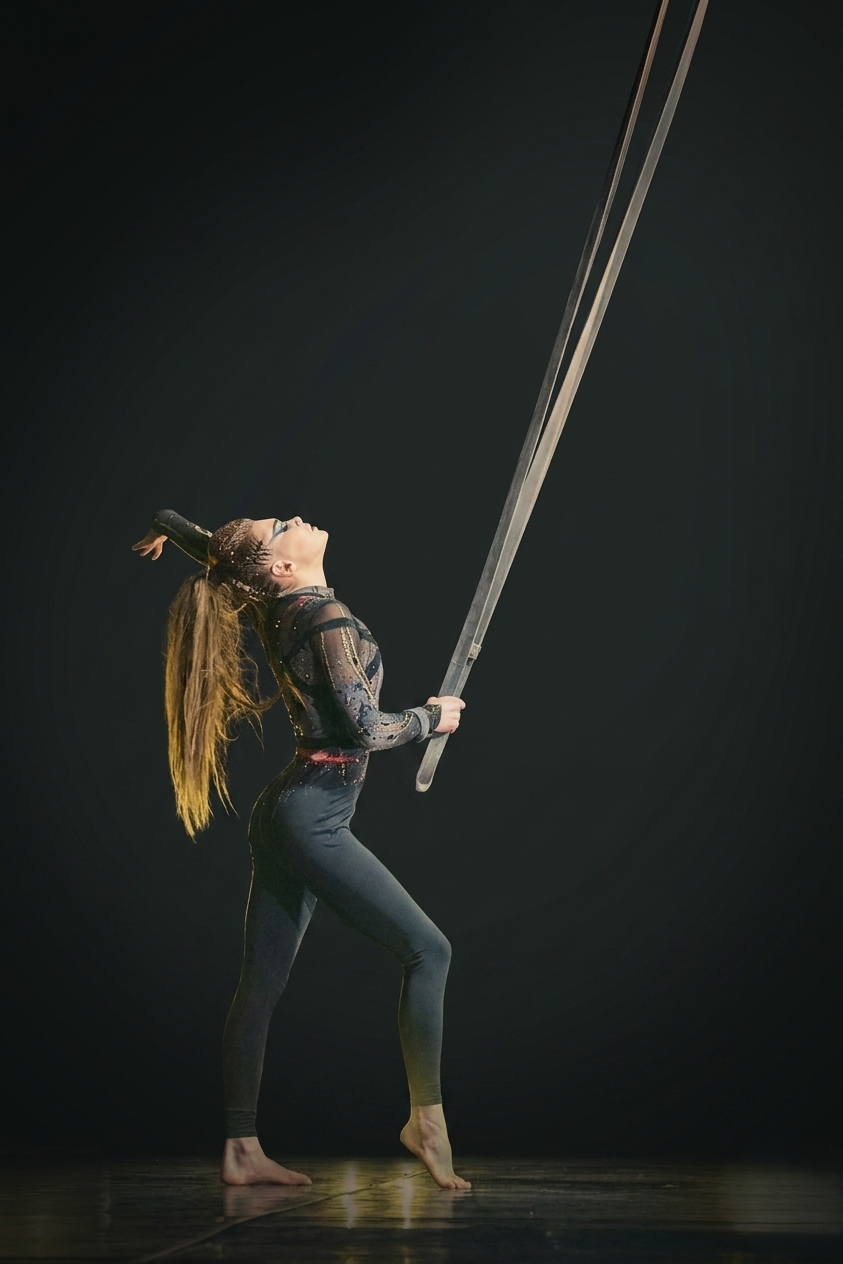
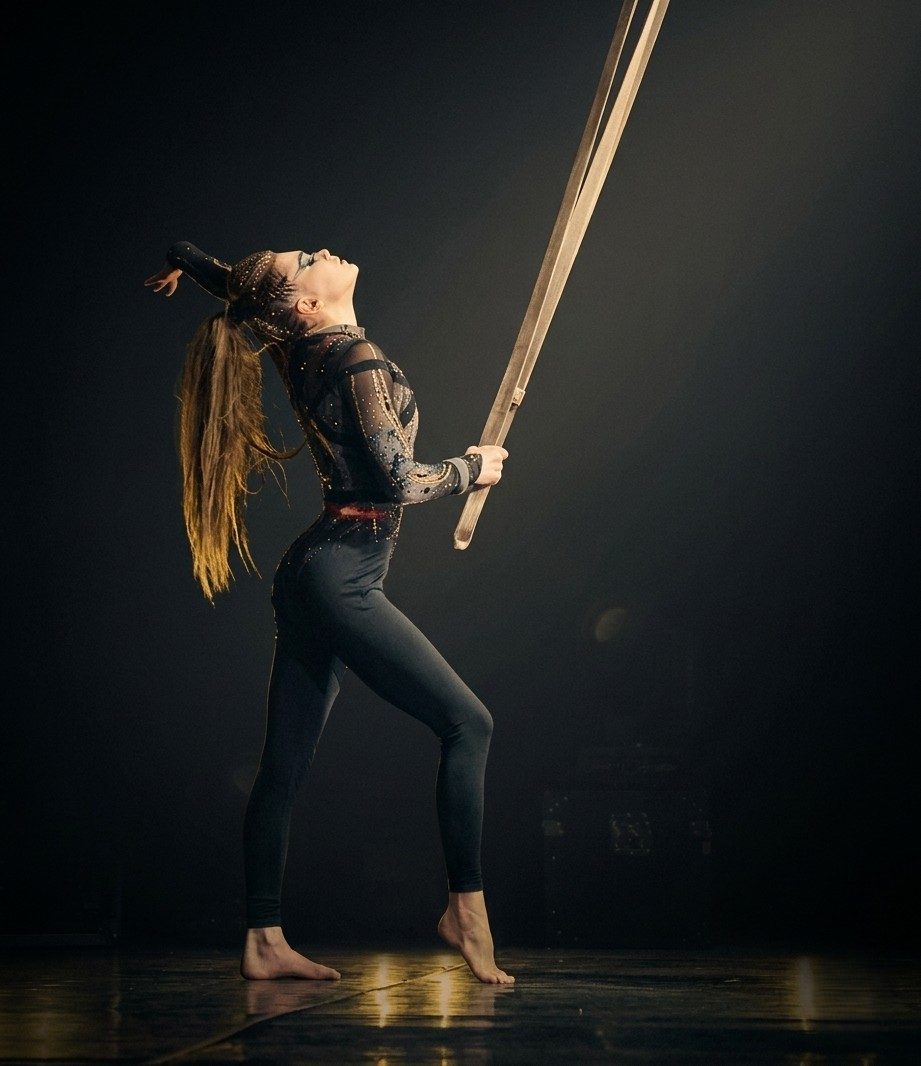
refactor About and TailoredServices components for consistency; update styles and improve layout

Changed region(s): [[0.1542, 0.0, 0.9561, 1.0], [0.8327, 0.8977, 1.0, 0.9906], [0.3393, 0.712, 0.3701, 0.7739]]

diff --git a/components/about.tsx b/components/about.tsx
@@ -1,49 +1,59 @@
-"use client"
+"use client";
 
-import { useLanguage } from "@/lib/language-context"
-import Image from "next/image"
+import { useLanguage } from "@/lib/language-context";
+import Image from "next/image";
 
 export function About() {
-  const { t } = useLanguage()
+  const { t } = useLanguage();
 
   const stats = [
     { value: t.about.stat1Value, label: t.about.stat1Label },
     { value: t.about.stat2Value, label: t.about.stat2Label },
     { value: t.about.stat3Value, label: t.about.stat3Label },
-  ]
+  ];
 
   return (
-    <section id="about" className="pt-12 pb-20 md:py-36 px-6 bg-background" aria-labelledby="about-heading">
+    <section
+      id="about"
+      className="pt-12 pb-20 md:py-36 px-6 bg-background"
+      aria-labelledby="about-heading"
+    >
       <div className="max-w-7xl mx-auto">
         <div className="grid md:grid-cols-2 gap-16 lg:gap-24 items-center">
           {/* Image side */}
-          <div className="relative">
-            <div className="relative aspect-[3/4] overflow-hidden">
+          <div className="relative order-2 md:order-1">
+            <div className="relative h-[420px] md:h-auto md:aspect-[4/5] overflow-hidden">
               <Image
                 src="/images/about.jpg"
                 alt="Aerial hoop performer in an elegant pose"
                 fill
-                className="object-cover object-top"
+               className="object-cover object-center"
                 sizes="(max-width: 768px) 100vw, 50vw"
               />
               {/* Gold frame accent */}
               <div className="absolute -bottom-4 -right-4 w-full h-full border border-gold/30 pointer-events-none" />
             </div>
             {/* Stats overlay */}
-            <div className="absolute -bottom-8 left-0 right-8 md:right-0 md:left-8 bg-surface-raised border border-border p-6 flex justify-between">
+            <div className="mt-6 bg-surface-raised border border-border p-4 flex justify-between">
               {stats.map((stat) => (
-                <div key={stat.label} className="text-center">
-                  <p className="font-display text-4xl font-light text-gold">{stat.value}</p>
-                  <p className="font-body text-xs tracking-widest uppercase text-muted-foreground mt-1">{stat.label}</p>
+                <div key={stat.label} className="flex-1 text-center">
+                  <p className="font-display text-2xl md:text-4xl font-light text-gold">
+                    {stat.value}
+                  </p>
+                  <p className="font-body text-[10px] md:text-xs tracking-widest uppercase text-muted-foreground mt-1">
+                    {stat.label}
+                  </p>
                 </div>
               ))}
             </div>
           </div>
 
           {/* Content side */}
-          <div className="mt-16 md:mt-0">
+          <div className="mt-0 md:mt-0 order-1 md:order-2">
             {/* Section label */}
-            <p className="font-body text-xs tracking-[0.3em] uppercase text-gold mb-6">{t.about.label}</p>
+            <p className="font-body text-xs tracking-[0.3em] uppercase text-gold mb-6">
+              {t.about.label}
+            </p>
 
             <h2
               id="about-heading"
@@ -65,7 +75,9 @@ export function About() {
             {/* Bachelor party highlight */}
             <div className="border-l-2 border-gold pl-6 py-1">
               <p className="font-body text-sm text-foreground leading-relaxed">
-                <span className="text-gold font-medium">{t.about.specialityLabel}</span>{" "}
+                <span className="text-gold font-medium">
+                  {t.about.specialityLabel}
+                </span>{" "}
                 {t.about.specialityText}
               </p>
             </div>
@@ -73,5 +85,5 @@ export function About() {
         </div>
       </div>
     </section>
-  )
+  );
 }

diff --git a/components/tailored-services.tsx b/components/tailored-services.tsx
@@ -5,7 +5,7 @@ import { useLanguage } from "@/lib/language-context";
 export function TailoredServices() {
   const { t } = useLanguage();
   return (
-    <div className="max-w-2xl mx-auto text-center relative z-10">
+    <div className="max-w-2xl mx-auto text-center relative z-10 bg-background">
       {/* Top divider */}
       <div className="w-12 h-px bg-gold/60 mx-auto mb-12" />
 

diff --git a/app/globals.css b/app/globals.css
@@ -29,6 +29,7 @@
   --gold-light: oklch(0.88 0.1 80);
   --gold-dark: oklch(0.6 0.12 75);
   --surface: oklch(0.13 0 0);
+  /* --surface-2: oklch(0.18 0 0); */
   --surface-raised: oklch(0.16 0 0);
   --sidebar: oklch(0.13 0 0);
   --sidebar-foreground: oklch(0.96 0.01 80);
